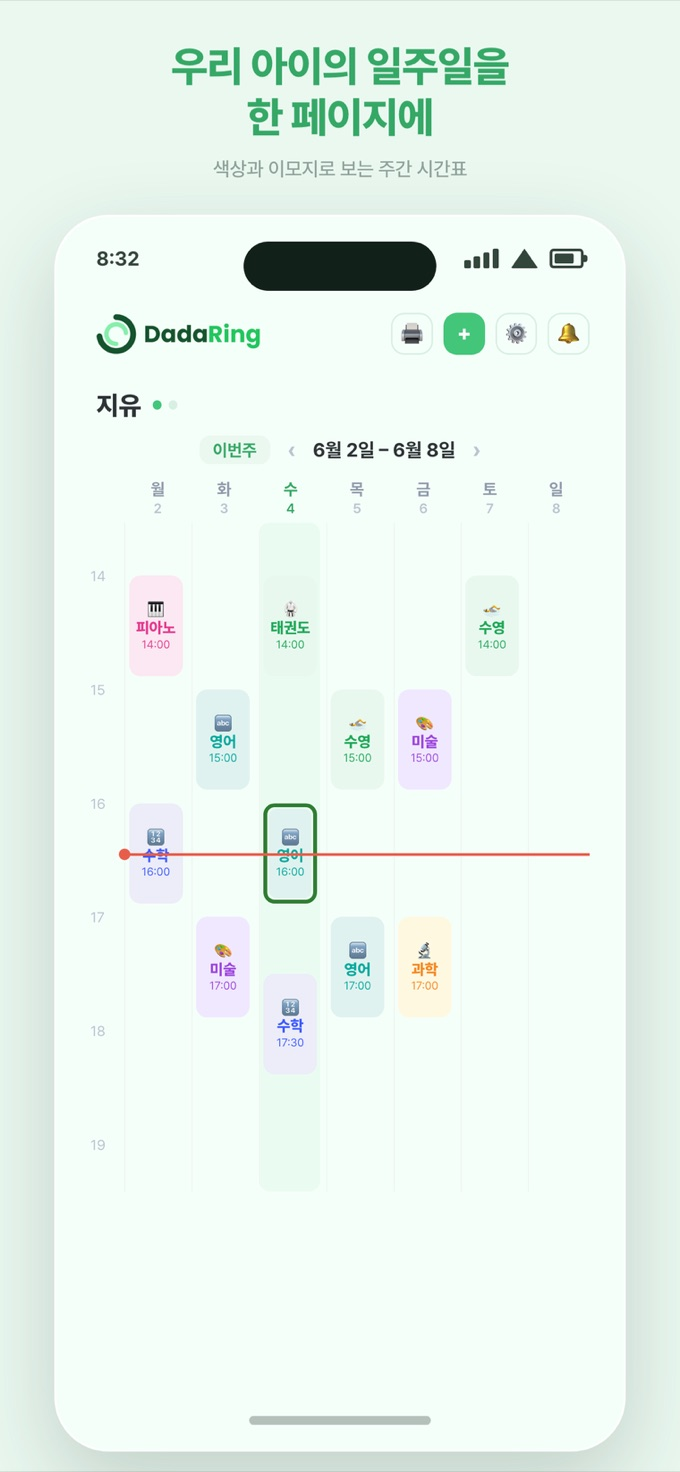
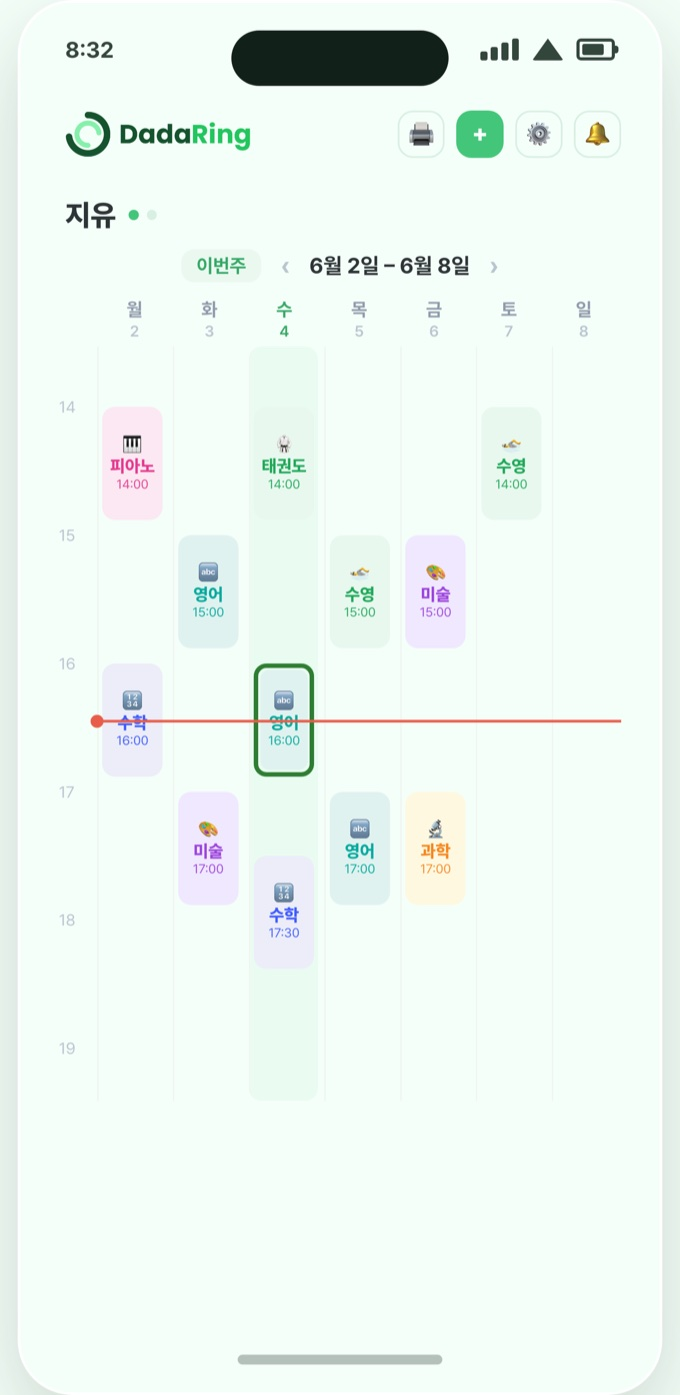
feat(blog): 4호 인스타 카드뉴스 6장 + 본문 이미지 교체
marketing-content.js 에 경로만 넣고 실제 카드 이미지를 만들지 않아
인스타 업로드가 안 되던 문제 해결.

- cards.html 렌더 소스 + card1~6.png (1080x1350) 제작, images/marketing/ 배포
- 카드 구성: 훅(요일마다 다름) → 주간 시간표 → 요일 반복 등록 →
  '이번 주만 vs 반복 변경' 대비 → 공유·인쇄 → CTA
- 본문·카드 이미지를 스토어 목업(헤드라인+프레임)에서 **폰 화면만 렌더한
  깨끗한 버전**으로 교체 (헤드라인 중복·폰 잘림 해소)
- 네이버·인스타·스레드 원고를 marketing/ 소스 폴더에 보관(3호와 동일)

⚠ 렌더 시 chrome 에 file:// 절대경로를 줘야 :target 해시가 먹는다
   (상대경로면 도메인으로 해석돼 전 카드가 동일한 오류 페이지로 찍힘)

diff --git a/marketing/2026-08-06-child-timetable/instagram/cards.html b/marketing/2026-08-06-child-timetable/instagram/cards.html
@@ -1,0 +1,141 @@
+<!DOCTYPE html>
+<!-- 인스타 카드뉴스 렌더 소스 (1080x1350, 4:5). #card1~#card6 해시로 한 장씩 표시.
+     캡처: chrome headless --window-size=1080,1350 --screenshot=cardN.png cards.html#cardN -->
+<html lang="ko">
+<head>
+<meta charset="UTF-8">
+<link href="https://cdn.jsdelivr.net/gh/orioncactus/pretendard@v1.3.9/dist/web/variable/pretendardvariable-dynamic-subset.min.css" rel="stylesheet">
+<style>
+  :root {
+    --primary: #43C67A; --primary-dark: #35A866; --surface: #EAF8F0;
+    --bg: #F5FFF9; --ink: #2D3436; --sub: #5E7468;
+  }
+  * { margin: 0; padding: 0; box-sizing: border-box; }
+  body { font-family: 'Pretendard', sans-serif; word-break: keep-all; }
+  .card { display: none; width: 1080px; height: 1350px; position: relative; overflow: hidden;
+          background: var(--bg); flex-direction: column; padding: 90px 84px; }
+  .card:target { display: flex; }
+  .brand { position: absolute; top: 64px; right: 84px; font-size: 34px; font-weight: 800;
+           color: var(--primary-dark); letter-spacing: -1px; }
+  .pageno { position: absolute; bottom: 56px; right: 84px; font-size: 26px; color: #B8C5D0; font-weight: 600; }
+  .kicker { font-size: 34px; font-weight: 700; color: var(--primary-dark); margin-bottom: 28px; }
+  h1 { font-size: 82px; font-weight: 800; line-height: 1.28; letter-spacing: -2px; color: var(--ink); }
+  h1 .hl { color: var(--primary-dark); }
+  .sub { font-size: 40px; line-height: 1.6; color: var(--sub); margin-top: 40px; font-weight: 500; }
+  .center { justify-content: center; }
+  .paper { background: #fff; border: 3px solid var(--surface); border-radius: 32px;
+           padding: 44px 50px; box-shadow: 0 16px 40px rgba(31,51,41,.08);
+           font-size: 38px; font-weight: 600; color: var(--ink); line-height: 1.85;
+           width: fit-content; }
+  .paper small { display: block; font-size: 30px; color: #B8C5D0; font-weight: 700; letter-spacing: 0; margin-bottom: 16px; }
+  .paper .x { color: #C9A227; }
+  .shot-wrap { flex: 1; display: flex; align-items: center; justify-content: center; margin-top: 48px; }
+  .shot-wrap img { border-radius: 36px; border: 2px solid #D8F0E3;
+                   box-shadow: 0 24px 64px rgba(31,51,41,.14); }
+  .rows { margin-top: 64px; display: flex; flex-direction: column; gap: 36px; }
+  .row { background: #fff; border: 2px solid #D8F0E3; border-radius: 32px; padding: 44px 48px;
+         display: flex; gap: 36px; align-items: flex-start;
+         box-shadow: 0 12px 32px rgba(31,51,41,.06); }
+  .row .emoji { font-size: 64px; line-height: 1.1; }
+  .row h3 { font-size: 44px; font-weight: 800; color: var(--ink); margin-bottom: 10px; }
+  .row p { font-size: 34px; line-height: 1.55; color: var(--sub); }
+  /* 4번 카드 — 이번 주만 vs 매주 반복 대비 */
+  .pick { margin-top: 64px; display: flex; flex-direction: column; gap: 32px; }
+  .pick .opt { background: #fff; border: 3px solid #D8F0E3; border-radius: 32px; padding: 44px 48px;
+               box-shadow: 0 12px 32px rgba(31,51,41,.06); }
+  .pick .opt.on { border-color: var(--primary); background: #F2FCF6; }
+  .pick .opt .tag { display: inline-block; font-size: 30px; font-weight: 800; color: var(--primary-dark);
+                    background: var(--surface); border-radius: 999px; padding: 10px 26px; margin-bottom: 18px; }
+  .pick .opt h3 { font-size: 46px; font-weight: 800; color: var(--ink); margin-bottom: 12px; }
+  .pick .opt p { font-size: 34px; line-height: 1.55; color: var(--sub); }
+  .cta-box { background: linear-gradient(135deg, var(--primary) 0%, var(--primary-dark) 100%);
+             border-radius: 48px; padding: 96px 72px; text-align: center; margin-top: 72px; }
+  .cta-box h2 { font-size: 72px; font-weight: 800; color: #fff; letter-spacing: -1px; }
+  .cta-box p { font-size: 40px; color: rgba(255,255,255,.9); margin-top: 24px; }
+  .stores { display: flex; gap: 28px; justify-content: center; margin-top: 56px; }
+  .stores span { background: #2D3436; color: #fff; font-size: 36px; font-weight: 700;
+                 padding: 28px 48px; border-radius: 24px; }
+</style>
+</head>
+<body>
+
+<!-- 1: 훅 -->
+<section class="card center" id="card1">
+  <div class="brand">DADAring</div>
+  <div class="paper"><small>이번 주 우리 아이</small>· 월 피아노 16:00<br>· 화 영어 15:00<br>· 목 영어 15:30 …<span class="x">🤔</span></div>
+  <h1 style="margin-top:72px;">요일마다<br><span class="hl">시간이 다 달라서</span></h1>
+  <p class="sub">"오늘 피아노야, 태권도야?"<br>매번 요일을 세어보게 되죠.</p>
+  <div class="pageno">1 / 6</div>
+</section>
+
+<!-- 2: 해법 -->
+<section class="card" id="card2">
+  <div class="brand">DADAring</div>
+  <div class="kicker">다다링 주간 시간표</div>
+  <h1>일주일이<br><span class="hl">한 화면에</span></h1>
+  <div class="shot-wrap"><img src="_sched-clean.png" alt="" style="width:520px;"></div>
+  <div class="pageno">2 / 6</div>
+</section>
+
+<!-- 3: 한 번 등록하면 -->
+<section class="card" id="card3">
+  <div class="brand">DADAring</div>
+  <div class="kicker">매주 다시 입력하지 마세요</div>
+  <h1>한 번 등록하면<br><span class="hl">매주 알아서</span></h1>
+  <div class="rows">
+    <div class="row"><div class="emoji">🔁</div><div><h3>요일 반복 등록</h3><p>반복할 요일과 시간만 고르면 이번 주부터 계속</p></div></div>
+    <div class="row"><div class="emoji">📍</div><div><h3>주소·대표번호까지</h3><p>학원을 검색해 등록하면 일정에서 바로 전화</p></div></div>
+    <div class="row"><div class="emoji">🔴</div><div><h3>지금 시각 표시</h3><p>빨간 선으로 다음 일정까지 얼마 남았는지 한눈에</p></div></div>
+  </div>
+  <div class="pageno">3 / 6</div>
+</section>
+
+<!-- 4: 예외 처리 (핵심 차별점) -->
+<section class="card" id="card4">
+  <div class="brand">DADAring</div>
+  <div class="kicker">이번 주만 휴강이라면</div>
+  <h1>둘 중에<br><span class="hl">고르세요</span></h1>
+  <div class="pick">
+    <div class="opt on">
+      <span class="tag">이번 주만</span>
+      <h3>"목요일만 편집"</h3>
+      <p>그 회차만 휴강하거나 시간 이동. 다음 주부터는 원래대로예요.</p>
+    </div>
+    <div class="opt">
+      <span class="tag">앞으로 계속</span>
+      <h3>"반복 일정 변경"</h3>
+      <p>학원 시간이 아예 바뀐 경우. 앞으로 일정이 모두 새 시간으로.</p>
+    </div>
+  </div>
+  <p class="sub" style="font-size:34px;margin-top:44px;">한 회차만 바꾼 건 되돌리기도 됩니다.</p>
+  <div class="pageno">4 / 6</div>
+</section>
+
+<!-- 5: 공유·인쇄 -->
+<section class="card" id="card5">
+  <div class="brand">DADAring</div>
+  <div class="kicker">묻고 답할 일이 줄어요</div>
+  <h1>온 가족이<br><span class="hl">같은 시간표를</span></h1>
+  <div class="rows">
+    <div class="row"><div class="emoji">👵</div><div><h3>배우자·조부모와 공유</h3><p>할머니가 하원 맡는 날에도 같은 화면을 봅니다</p></div></div>
+    <div class="row"><div class="emoji">👧</div><div><h3>아이별로 따로</h3><p>첫째와 둘째 일정이 섞이지 않아요</p></div></div>
+    <div class="row"><div class="emoji">🖨</div><div><h3>인쇄해서 냉장고에</h3><p>아이가 스스로 오늘 뭐가 있는지 확인해요</p></div></div>
+  </div>
+  <div class="pageno">5 / 6</div>
+</section>
+
+<!-- 6: CTA -->
+<section class="card center" id="card6">
+  <div class="brand">DADAring</div>
+  <h1>요일을 세지 않아도,<br><span class="hl">일주일이 한 화면에</span></h1>
+  <p class="sub">학원 일정 · 위젯 · 알림장 · AR 영어독서 · 학원비</p>
+  <div class="cta-box">
+    <h2>다다링, 무료로 시작</h2>
+    <p>스토어에서 "다다링"을 검색하세요</p>
+    <div class="stores"><span>🍎 App Store</span><span>🤖 Google Play</span></div>
+  </div>
+  <div class="pageno">6 / 6</div>
+</section>
+
+</body>
+</html>

diff --git a/blog/child-timetable.html b/blog/child-timetable.html
@@ -56,7 +56,7 @@
   <h2>일주일이 한 화면에 들어옵니다</h2>
   <p>다다링의 일정 탭은 <strong>요일 × 시간</strong> 격자로 된 주간 시간표예요. 학교·학원 일정이 시간대에 맞춰 블록으로 놓이고, 과목마다 색과 이모지가 달라 굳이 글자를 읽지 않아도 구분이 됩니다.</p>
   <figure>
-    <img src="/images/timetable-week-680.jpg" alt="다다링 주간 시간표 화면 — 월요일 피아노·수학, 화요일 영어·미술, 수요일 태권도·영어·수학 등 요일별 학원 일정이 색상 블록으로 표시된 모습" width="680" height="1472" loading="lazy" decoding="async">
+    <img src="/images/timetable-week-680.jpg" alt="다다링 주간 시간표 화면 — 월요일 피아노·수학, 화요일 영어·미술, 수요일 태권도·영어·수학 등 요일별 학원 일정이 색상 블록으로 표시된 모습" width="680" height="1395" loading="lazy" decoding="async">
     <figcaption>요일마다 다른 일정도 한 화면에. 빨간 선은 지금 시각이라, 다음 일정까지 얼마나 남았는지 바로 보여요.</figcaption>
   </figure>
   <p>화면을 가로지르는 <strong>빨간 선이 현재 시각</strong>입니다. 시간표를 열면 "지금 어디쯤이고 다음이 뭔지"가 한눈에 들어와요. 좌우로 넘기면 지난주·다음 주도 그대로 확인할 수 있습니다.</p>

diff --git a/marketing/2026-08-06-child-timetable/naver.md b/marketing/2026-08-06-child-timetable/naver.md
@@ -1,0 +1,62 @@
+# 아이 학원 시간표 관리, 요일마다 다른 일정을 한 화면에 정리하는 법 (초등 학부모 꿀팁)
+
+월요일은 피아노, 화요일은 영어, 수요일은 태권도, 목요일은 또 영어인데 시간이 30분 늦고, 토요일엔 수영…
+
+아이가 다니는 곳이 서너 군데만 넘어가도 요일마다 시간이 다 다릅니다.
+
+그래서 매번 머릿속으로 오늘 요일을 세어 보고, 확신이 안 서면 학원 단톡방을 뒤지고, 결국 "오늘 몇 시에 어디 가지?"를 하루에도 몇 번씩 확인하게 되죠.
+
+오늘은 한 번만 등록해두면 매주 알아서 채워지는 '다다링' 주간 시간표를 소개할게요.
+
+(여기에 이미지 ①: 주간 시간표 화면)
+
+■ 일주일이 한 화면에
+
+다다링 일정 탭은 요일 × 시간 격자로 된 주간 시간표예요. 학교·학원 일정이 시간대에 맞춰 블록으로 놓이고, 과목마다 색과 이모지가 달라서 글자를 읽지 않아도 구분이 됩니다.
+
+화면을 가로지르는 빨간 선이 현재 시각이라, 열자마자 "지금 어디쯤이고 다음이 뭔지"가 바로 보여요. 좌우로 넘기면 지난주·다음 주도 확인할 수 있습니다.
+
+■ 한 번 등록하면 매주 자동
+
+학원 일정은 대부분 매주 같은 요일에 반복되죠. 그래서 요일 반복으로 등록합니다.
+
+1. 일정 탭 우측 상단 ＋ 버튼
+2. 학원 이름을 검색하거나 직접 입력, 반복할 요일과 시간 선택
+3. 저장하면 이번 주부터 계속 그 자리에
+
+매주 다시 입력할 필요가 없어요. 학원을 검색해서 등록하면 주소·대표번호도 함께 저장돼서, "오늘 늦는다고 전화해야 하는데" 싶을 때 일정에서 바로 전화를 걸 수 있습니다.
+
+(여기에 이미지 ②: 일정 상세 — 목요일만 편집 / 반복 일정 변경)
+
+■ 이번 주만 휴강이면, 이번 주만
+
+시간표 관리에서 제일 번거로운 게 예외예요. 이번 주 수요일만 휴강, 다음 주 목요일만 보강으로 시간 이동. 이걸 반영하려고 반복 일정을 통째로 고치면 그 다음 주부터 다 틀어지죠.
+
+다다링은 일정 블록을 탭하면 둘 중에 고르게 합니다.
+
+"목요일만 편집" — 그 회차만 휴강 처리하거나 시간을 옮겨요. 다음 주부터는 원래대로.
+"반복 일정 변경" — 학원 시간이 아예 바뀐 경우. 앞으로 일정이 모두 새 시간으로.
+
+한 회차만 바꾼 건 되돌리기도 됩니다.
+
+■ 아이가 둘이어도, 가족이 여럿이어도
+
+아이가 여러 명이면 상단에서 아이를 바꿔가며 각자의 시간표를 봅니다. 첫째와 둘째 일정이 섞이지 않아요.
+
+그리고 이 시간표는 배우자·조부모와 공유할 수 있습니다. 공유받은 사람도 같은 시간표를 보기 때문에 "오늘 태권도 몇 시야?"를 묻고 답할 일이 줄어요. 할머니가 하원을 맡는 날에도 같은 화면을 보면 됩니다.
+
+■ 인쇄해서 냉장고에
+
+시간표 화면 왼쪽 위 프린터 아이콘을 누르면 주간 시간표를 인쇄할 수 있어요. 냉장고나 아이 책상 앞에 붙여두면 아이가 스스로 오늘 뭐가 있는지 확인합니다. 흑백 프린터로 뽑아도 잘 보이게 만들었어요.
+
+■ 등록해두면 따라오는 것들
+
+시간표를 채워두면 다른 화면이 알아서 그 정보를 씁니다. 홈 화면 위젯에 오늘 일정이 뜨고, 수업 시작·종료 몇 분 전 알림을 받을 수 있고, 학원비 납부일 관리와도 연결돼요.
+
+다다링은 원래 아이 학원·학교 일정 관리 앱이라 시간표 말고도 알림장 AI, 영어 AR 성적 관리, 학원비 관리까지 한 앱에서 됩니다.
+
+무료로 시작할 수 있어요 → https://www.dadaring.com/app
+
+(다다링 공식 블로그입니다)
+
+#학원시간표 #아이일정관리 #초등맘 #학원스케줄 #워킹맘꿀팁 #육아앱 #시간표앱 #맞벌이육아 #학원관리 #다다링

diff --git a/marketing/2026-08-06-child-timetable/instagram/caption.md b/marketing/2026-08-06-child-timetable/instagram/caption.md
@@ -1,0 +1,23 @@
+"오늘 피아노야, 태권도야?" 🤔
+
+월요일은 피아노
+화요일은 영어
+목요일은 또 영어인데 30분 늦고…
+
+요일마다 시간이 다 다르니
+매번 요일을 세어보게 되죠 🥲
+
+한 번만 등록해두세요.
+
+🗓 요일 × 시간 격자로 일주일이 한 화면에
+🔁 매주 반복이라 다시 입력할 필요 없음
+✂ 이번 주만 휴강? "목요일만 편집"으로 그 주만
+👨👩👧 배우자·조부모도 같은 시간표를 봐요
+🖨 인쇄해서 냉장고에 붙이면 아이가 스스로 확인
+
+빨간 선이 지금 시각이라
+다음 일정까지 얼마 남았는지도 바로 보여요 ✨
+
+다다링, 무료로 시작 → 프로필 링크 (www.dadaring.com/app)
+
+#학원시간표 #아이일정관리 #초등맘 #학원스케줄 #워킹맘꿀팁 #육아앱추천 #시간표앱 #맞벌이육아 #육아꿀팁 #다다링

diff --git a/marketing/2026-08-06-child-timetable/threads.md b/marketing/2026-08-06-child-timetable/threads.md
@@ -1,0 +1,35 @@
+"오늘 피아노야, 태권도야?"
+
+월요일 피아노, 화요일 영어,
+목요일은 또 영어인데 30분 늦고…
+
+요일마다 시간이 달라서
+매번 요일을 세어보게 되죠 🥲
+
+한 번 등록하면 매주 자동으로 채워집니다.
+
+📲 https://www.dadaring.com/app
+
+---
+
+학원 시간표 관리에서 제일 번거로운 건 "이번 주만" 바뀌는 거예요.
+
+이번 주 수요일만 휴강,
+다음 주 목요일만 보강.
+
+반복 일정을 통째로 고치면 그 다음 주가 다 틀어지죠.
+
+다다링은 "이번 주만" 과 "매주 반복" 을 따로 고칩니다.
+📲 https://www.dadaring.com/app
+
+---
+
+할머니가 하원 맡는 날.
+
+"오늘 태권도 몇 시야?"
+"어디로 데리러 가?"
+
+시간표를 공유해두면 안 물어봐도 됩니다.
+같은 화면을 보니까요.
+
+다다링 📲 https://www.dadaring.com/app
